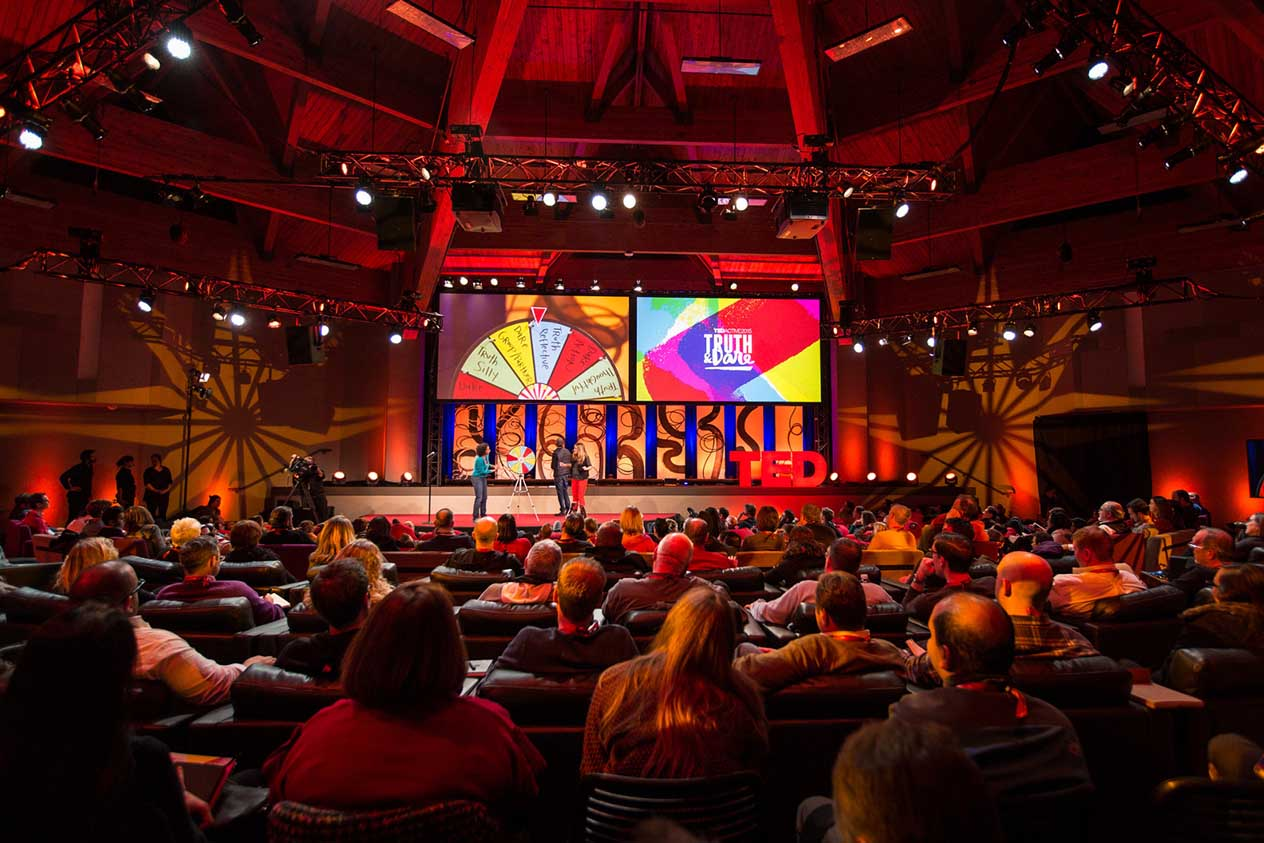
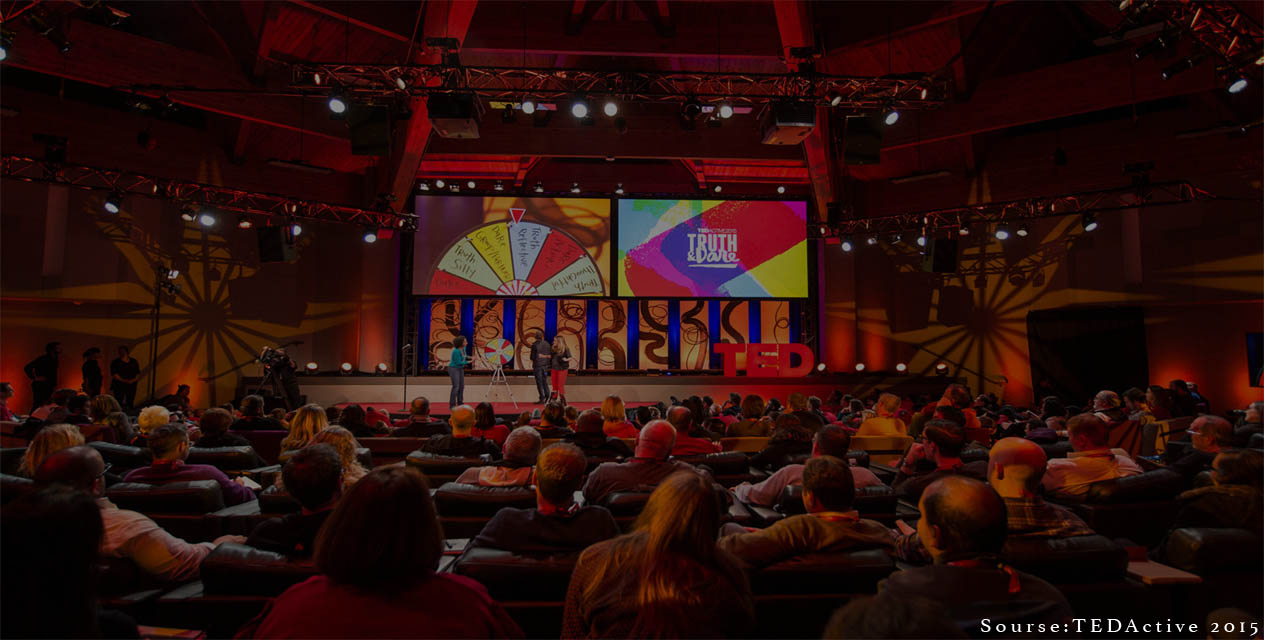
Background image updated

diff --git a/new/min/custom-min.css b/new/min/custom-min.css
@@ -1,5 +1,5 @@
 .default_color{background-color:rgba(0,0,0,0.8) !important}.default_color_text{color:#000000 !important}.icon-block{padding:0
-15px}#intro,#work,#team{padding-top:6rem}#index-banner{min-height:632px;max-height:864px;position:relative;background-image: url("../img/bg/bg_new.jpg")}#nav_f{box-shadow:none !important;-webkit-box-shadow:none !important}.text_h{padding:15% 0;font-size:6.0em;font-weight:100;color:white}.brand-logo{position:absolute;color:#fff;background-image: url(img/logo.png); display:inline-block;font-size:2.1rem;font-style:normal;font-weight:100;padding:0;letter-spacing:7px}.text_h2{font-weight:100;margin-bottom:4%;line-height:4.5rem}.span_h2{font-weight:300;color:#2196F3}.text_b{color:#2196F3}.in{font-weight:400 !important;font-style:normal !important}.promo
+    15px}#intro,#work,#team{padding-top:6rem}#index-banner{min-height:632px;max-height:864px;position:relative;background-image: url("../img/bg/bg_new.jpg");background-size:1264px 635px;}#nav_f{box-shadow:none !important;-webkit-box-shadow:none !important}.text_h{padding:15% 0;font-size:6.0em;font-weight:100;color:white}.brand-logo{position:absolute;color:#fff;background-image: url(img/logo.png); display:inline-block;font-size:2.1rem;font-style:normal;font-weight:100;padding:0;letter-spacing:7px}.text_h2{font-weight:100;margin-bottom:4%;line-height:4.5rem}.span_h2{font-weight:300;color:#2196F3}.text_b{color:#2196F3}.in{font-weight:400 !important;font-style:normal !important}.promo
 i{color:#2196F3;font-size:7rem;display:block}.card-content
 a{color:#2196F3}.card-content a:hover{color:#2196F3}#work,#team{background:rgb(247,247,247)}.text_pink{color:#EF9A9A}nav ul
 a{font-size:1.2rem;color:#FFF;letter-spacing:2px;display:block;font-weight:300;padding:0px
